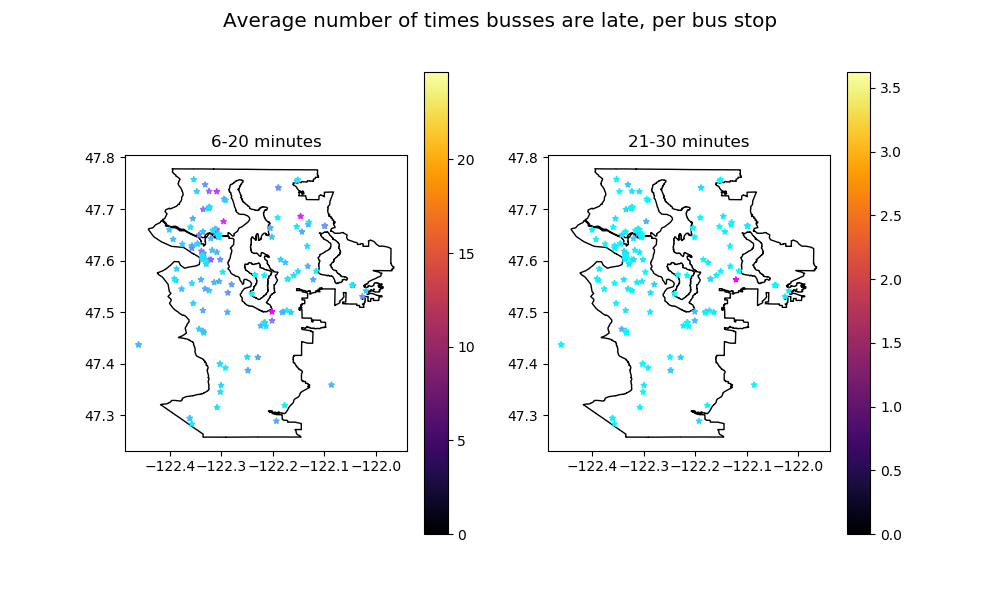
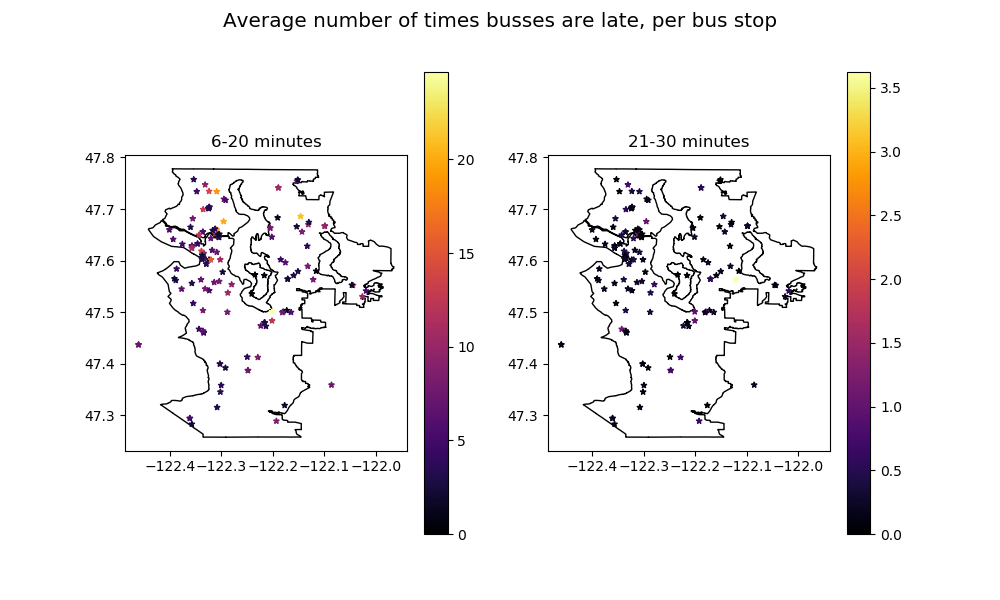
i dont even fuckin know at this point i think its done???

diff --git a/main.py b/main.py
@@ -110,9 +110,9 @@ def stop_map(df):
                            (pd.to_numeric(grouped['X']),
                             pd.to_numeric(grouped['Y'])))
     gdf.plot(marker='*', column=gdf['# 6-20 Min Late'],
-             markersize=16, cmap='cool', ax=ax1)
+             markersize=16, cmap='inferno', ax=ax1)
     gdf.plot(marker='*', column=gdf['# 21-30 Min Late'],
-             markersize=16, cmap='cool', ax=ax2)
+             markersize=16, cmap='inferno', ax=ax2)
     fig2, (ax3, ax4) = plt.subplots(1, 2)
     map1 = ax3.imshow(np.stack([gdf['# 6-20 Min Late'],
                                 gdf['# 6-20 Min Late']]), cmap='inferno')
@@ -138,11 +138,10 @@ def over_time(df):
     saves said graph to the graphs folder
     """
     fig, [ax1, ax2] = plt.subplots(1, 2, figsize=(10, 8))
-    df_hour = df
-    df_hour['Hour'] = pd.to_datetime(df['Trip St Tm'],
-                                     format='%I:%M %p').dt.hour
-    grouped = df_hour.groupby('Hour').agg({'# 6-20 Min Late': 'mean',
-                                           '# 21-30 Min Late': 'mean'})
+    df['Hour'] = pd.to_datetime(df['Trip St Tm'],
+                                format='%I:%M %p').dt.hour
+    grouped = df.groupby('Hour').agg({'# 6-20 Min Late': 'mean',
+                                      '# 21-30 Min Late': 'mean'})
     x_labels = ['12AM', '1AM', '2AM', '3AM', '4AM', '5AM', '6AM', '7AM',
                 '8AM', '9AM', '10AM', '11AM', '12PM', '1PM', '2PM', '3PM',
                 '4PM', '5PM', '6PM', '7PM', '8PM', '9PM', '10PM', '11PM']
